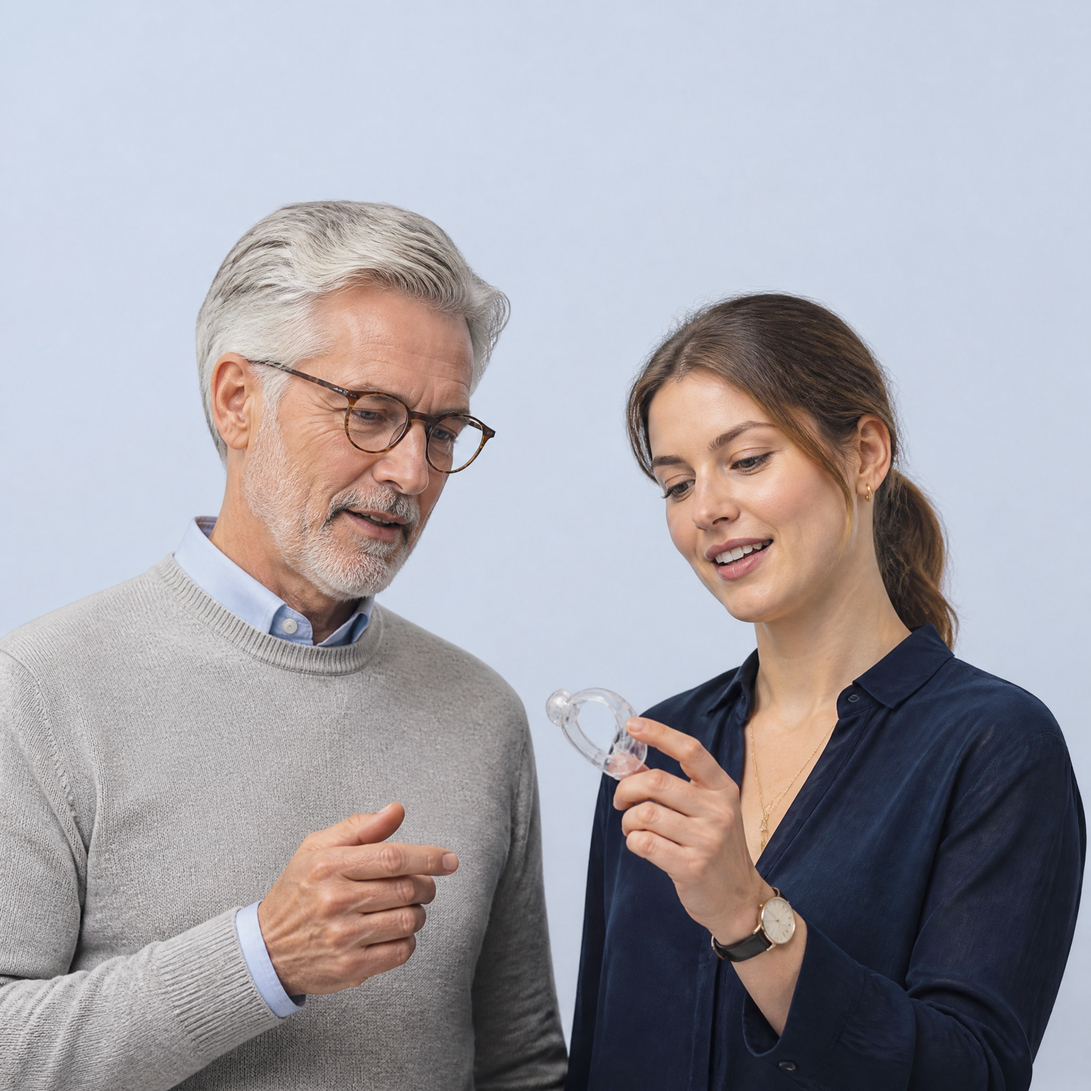
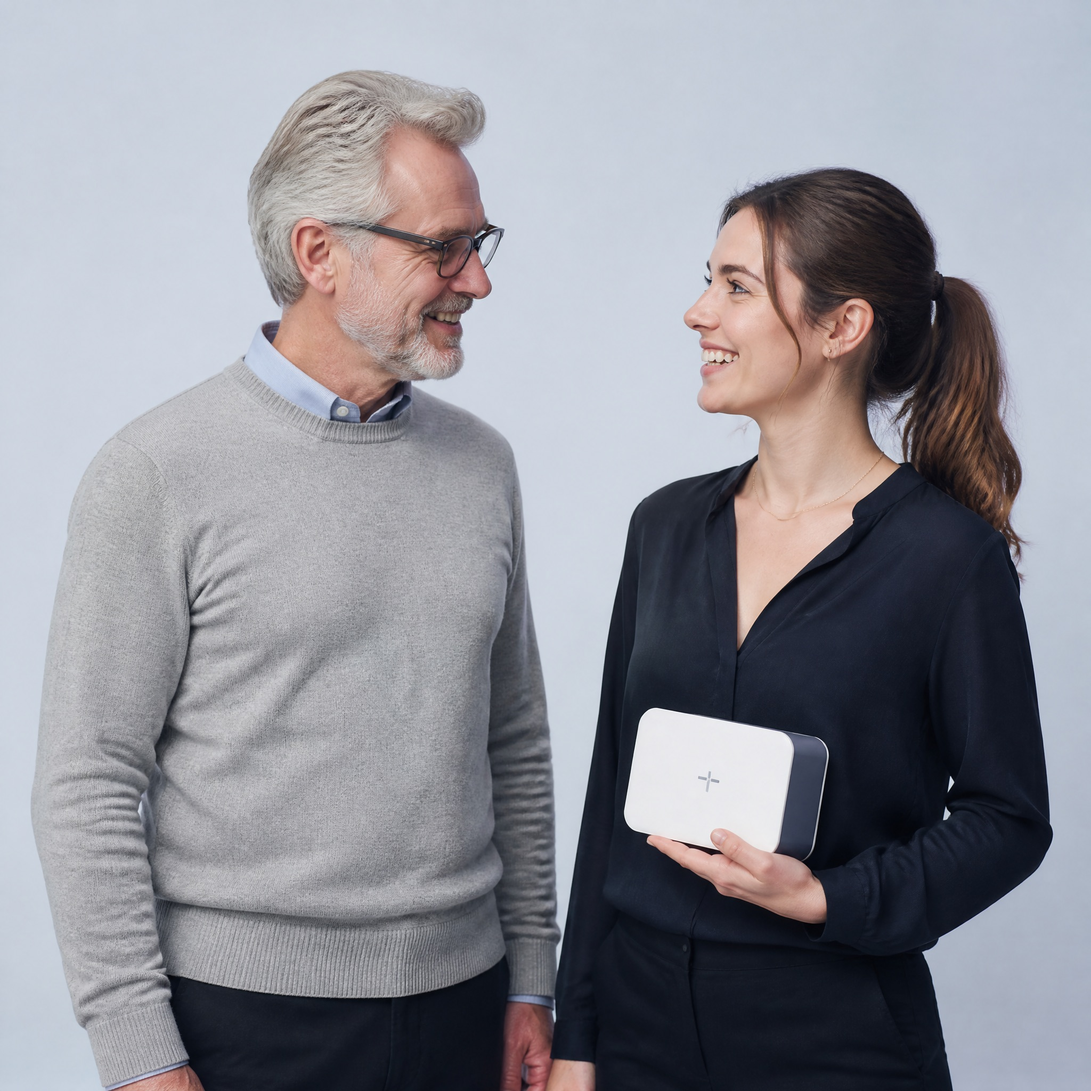
Typography system pass and natural-hands philosophy photo
- rx.css now defines the full type scale: rx-h1 (page titles), rx-h2 (section
  titles), rx-lead (subtitles/intros), rx-quote (large serif pull-quotes),
  rx-label (small meta labels), base 1.65 body line-height, --rx-muted token
- All sections/pages swept onto the scale: hero support, page-header leads,
  About body, Focus intro, Team intro now rx-lead; philosophy quotes rx-quote;
  meta lines (attribution, sources, contact labels, nav note) rx-label;
  dark philosophy cards h3 unified at 1.5rem
- philosophy-01 regenerated with simpler, natural hand poses

diff --git a/src/components/amed/rx/sections.tsx b/src/components/amed/rx/sections.tsx
@@ -90,7 +90,7 @@ export function RxHero() {
               </span>
             ))}
           </h1>
-          <p className="mt-6 max-w-[30rem] text-lg" data-rx-hero-item>
+          <p className="rx-lead mt-6 max-w-[30rem]" data-rx-hero-item>
             {RX_HERO.support}
           </p>
           <div className="mt-9 flex flex-wrap items-center gap-6" data-rx-hero-item>
@@ -269,7 +269,7 @@ export function RxGlance({ cta }: { cta?: { label: string; href: string } }) {
             ))}
           </SlideIn>
           <FadeUp delay={0.15}>
-            <p className="max-w-[26rem] text-lg">{RX_ABOUT.body}</p>
+            <p className="rx-lead max-w-[26rem]">{RX_ABOUT.body}</p>
           </FadeUp>
         </div>
 
@@ -479,7 +479,7 @@ export function RxFocusCards() {
             ))}
           </SlideIn>
           <FadeUp delay={0.1}>
-            <p className="mt-6">{RX_FOCUS.intro}</p>
+            <p className="rx-lead mt-6">{RX_FOCUS.intro}</p>
           </FadeUp>
         </div>
 
@@ -575,7 +575,7 @@ export function RxPhilosophy() {
                 <p className="text-sm font-bold" style={{ color: "var(--rx-accent)" }}>
                   {item.index}
                 </p>
-                <h3 className="mt-4 text-xl" style={{ color: "#fff" }}>
+                <h3 className="mt-4 text-2xl" style={{ color: "#fff" }}>
                   {item.title}
                 </h3>
                 <p className="mt-3 text-sm">{item.desc}</p>
@@ -712,7 +712,7 @@ export function RxStoryList({
                 >
                   {m.title}
                 </span>
-                <span className="mt-1 block text-xs">{m.source}</span>
+                <span className="rx-label mt-1 block">{m.source}</span>
               </span>
               <span className="text-sm font-bold" style={{ color: "var(--rx-ink)" }}>
                 {m.company}
@@ -1033,17 +1033,14 @@ export function RxPhilosophySplit() {
                     />
                   </div>
                   <div className="flex flex-col justify-center gap-8 p-10 md:p-14">
-                    <p
-                      className="rx-serif text-2xl leading-snug md:text-3xl"
-                      style={{ color: c.ink }}
-                    >
+                    <p className="rx-quote" style={{ color: c.ink }}>
                       {item.desc}
                     </p>
                     <div>
                       <p className="font-bold" style={{ color: c.ink }}>
                         {item.title}
                       </p>
-                      <p className="mt-1 text-sm" style={{ color: c.muted }}>
+                      <p className="rx-label mt-1" style={{ color: c.muted }}>
                         {RX_PHILOSOPHY.chip} · {item.index}
                       </p>
                     </div>
@@ -1258,7 +1255,7 @@ export function RxTeamBlocks() {
     <section className="rx-sep">
       <div className="rx-frame px-6 py-16 md:px-10 md:py-20">
         <FadeUp>
-          <p className="max-w-[44rem] text-lg">{TEAM.intro}</p>
+          <p className="rx-lead max-w-[44rem]">{TEAM.intro}</p>
         </FadeUp>
 
         <RxTeamGroup label="Managing Partners" members={TEAM.leadership} />

diff --git a/src/app/v2/rx.css b/src/app/v2/rx.css
@@ -15,6 +15,7 @@
   --rx-blue-soft: #eaf0f9;
   --rx-sand: #f3efe7;
   --rx-grey-neutral: #f4f4f6;
+  --rx-muted: rgba(20, 19, 26, 0.55);
   --rx-dark-line: rgba(255, 255, 255, 0.14);
   --rx-paper: #ffffff;
   --rx-grey: #eaf0f9;
@@ -25,6 +26,10 @@
 }
 
 /* Headings use the humanist serif (client: 人文味); UI/body stay Satoshi */
+.rx-root {
+  line-height: 1.65;
+}
+
 .rx-root h1,
 .rx-root h2,
 .rx-root h3 {
@@ -44,14 +49,43 @@
   border-top: 1px dashed var(--rx-line);
 }
 
+/* --- type scale ------------------------------------------------- */
+
+/* 主標 h1 */
 .rx-h1 {
   font-size: clamp(2.4rem, 4.6vw, 4.4rem);
-  line-height: 1.12;
+  line-height: 1.08;
 }
 
+/* 區塊主標 h2 */
 .rx-h2 {
   font-size: clamp(1.9rem, 3.4vw, 3.1rem);
-  line-height: 1.18;
+  line-height: 1.15;
+}
+
+/* 卡片標題 h3：預設 1.5rem，特例可用 utility 覆寫 */
+
+/* 副標／引言（顏色繼承所在區塊） */
+.rx-lead {
+  font-size: clamp(1.0625rem, 1.4vw, 1.25rem);
+  line-height: 1.65;
+}
+
+/* 大字引文（襯線） */
+.rx-quote {
+  font-family: var(--font-fraunces), Georgia, serif;
+  font-weight: 500;
+  letter-spacing: -0.01em;
+  font-size: clamp(1.5rem, 2.2vw, 1.9rem);
+  line-height: 1.42;
+}
+
+/* 小標／輔助標籤 */
+.rx-label {
+  font-size: 0.8125rem;
+  font-weight: 600;
+  letter-spacing: 0.02em;
+  color: var(--rx-muted);
 }
 
 .rx-serif {

diff --git a/src/components/amed/rx/ui.tsx b/src/components/amed/rx/ui.tsx
@@ -158,9 +158,7 @@ export function RxNav() {
         <div className="hidden items-center gap-3 lg:flex">
           <MailBadge />
           <div style={{ lineHeight: 1.25 }}>
-            <p className="text-xs" style={{ color: "var(--rx-body)" }}>
-              Write any time
-            </p>
+            <p className="rx-label">Write any time</p>
             <a
               href={RX_MAILTO}
               className="u-sweep text-sm font-bold"
@@ -212,7 +210,7 @@ export function RxPageHeader({
           </span>
         ))}
       </SlideIn>
-      {lead ? <p className="mt-6 max-w-[34rem] text-lg">{lead}</p> : null}
+      {lead ? <p className="rx-lead mt-6 max-w-[34rem]">{lead}</p> : null}
     </div>
   );
 }
@@ -251,13 +249,13 @@ export function RxCta() {
             {RX_CTA.cta}
           </a>
           <div>
-            <p className="text-xs">Email</p>
+            <p className="rx-label">Email</p>
             <a href={RX_MAILTO} className="u-sweep font-bold" style={{ color: "#fff" }}>
               {RX_CTA.email}
             </a>
           </div>
           <div>
-            <p className="text-xs">Offices</p>
+            <p className="rx-label">Offices</p>
             {RX_CTA.offices.map((o) => (
               <p key={o} className="font-bold" style={{ color: "#fff" }}>
                 {o}
